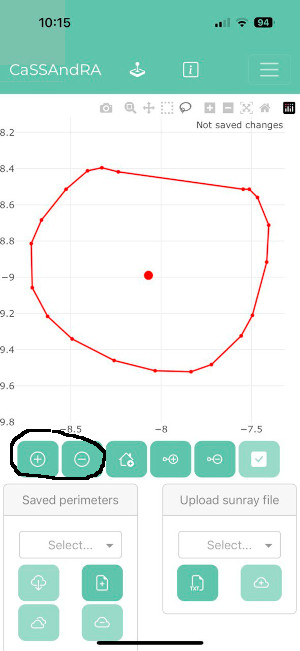
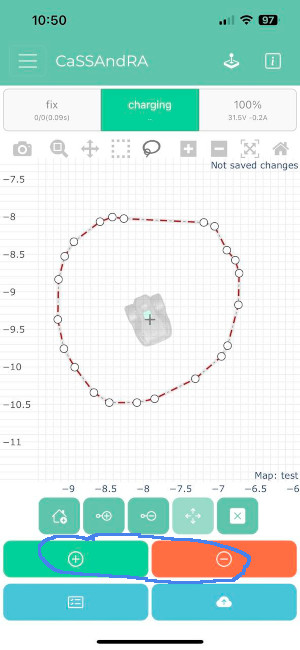
ATTENTION!!! Pls read README.MD
- Your data are now on new location!
- New options for app start
- Start translating READMIE.MD

diff --git a/CaSSAndRA/src/pages/mapping.py b/CaSSAndRA/src/pages/mapping.py
@@ -107,7 +107,7 @@ def update_layout() -> html.Div:
                                         dbc.Modal(
                                             [
                                                 dbc.ModalHeader(
-                                                    dbc.ModalTitle('Choose Perimeter')
+                                                    dbc.ModalTitle('Select map')
                                                 ),
                                                 dbc.ModalBody([
                                                     dbc.Col(id=ids.CONTENTMODALCHOOSEPERIMETER),
@@ -136,7 +136,7 @@ def update_layout() -> html.Div:
                                         dbc.Modal(
                                             [
                                                 dbc.ModalHeader(
-                                                    dbc.ModalTitle('Upload Sunray')
+                                                    dbc.ModalTitle('Import map')
                                                 ),
                                                 dbc.ModalBody(
                                                     dbc.Col(id=ids.CONETNEMODALUPLOADFILE) 

diff --git a/README.md b/README.md
@@ -278,50 +278,54 @@ Select “App” under Settings. Here you have the option to configure some fron
 5. Voltage to SoC: Conversion of voltage to state of charge (simple linear interpolation). The recommended voltage min (0%) is the shutdown voltage from the config.h of your sunray FW +0.5V. The recommended voltage max (100%) is the final charging voltage from the config.h of your sunray FW -0.5V. The SoC display has no controlling function and only serves as an overview on the home page
 
 ## Mapping
-Eine neue Karte oder bereits vorhandene Karte kann im Bereich Mapping erstellt/geändert werden. 
+A new map or existing map can be created/modified on the "Mapping" page.
 
-In der App klickt auf "Mapping". Um eine vorhandene Karte zu ändern, wählt im Bereich "saved perimeters" die gewünschte Karte. Nun kann mit der Bearbeitung gestartet werden. Eine zusätzliche Sicherung der vorhandenen Karte vor der Bearbeitung ist nicht notwendig. Nach dem Fertigstellen der Karte wird man aufgefordert die bearbeitete Karte in einem separaten Slot zu speichern. Um eine neue Karte zu erstellen klickt auf das Dateisymbol mit dem Plus im Berech "saved perimeters". 
+In the app click on “Mapping”. To change an existing map, select the desired map in the "select map" area. Now you can start editing. An additional backup of the existing map before processing is not necessary. After completing the map, you will be asked to save the edited map in a separate slot. To create a new map, click on the file icon with the plus in the "select map" section.
 
 ![create_new_perimeter](https://raw.githubusercontent.com/EinEinfach/CaSSAndRA/master/docs/create_new_perimeter.jpeg) 
 
-Positioniert den Roboter an der Stelle, wo ein neuer Punkt aufgezeichnet soll und drückt auf "add new point" zum hinzufügen einer neuen Koordinate oder "remove last point" zum Löschen der letztgesetzten Koordinate.
+Position the robot at the location where a new point is to be recorded and press "add new point" to add a new coordinate or "remove last point" to delete the last set coordinate.
 
 ![add_remove_point](https://raw.githubusercontent.com/EinEinfach/CaSSAndRA/master/docs/add_remove_point.jpeg) 
 
-Ist die Figur fertig kann diese der Fläche hinzugefügt werden (Perimeter), oder aus der Fläche entfernt werden (Exclusion). Hierzu klickt auf die entsprechende Buttons.
+Once the figure is finished, it can be added to the area (perimeter) or removed from the area (exclusion). To do this, click on the corresponding buttons.
 
 ![add_remove_figure](https://raw.githubusercontent.com/EinEinfach/CaSSAndRA/master/docs/add_remove_figure.jpeg) 
 
-Um eine Figur zu erstellen können bereits bekannte Werkzeuge Box-Select oder Lasso-Select genutzt werden. So funiktioniert z.B. auch das Löschen einer Exclusion umkreist die Exclusion mit Lasso-Select und wählt zur Fläche hinzufügen. Die neue Figur wird dem Perimeter hinzugefügt und überklebt sozusagen die vorhandene Exclusion. 
+To create a figure, you can use the well-known tools Box-Select or Lasso-Select. For example, deleting an exclusion also works by circling the exclusion with lasso select and selecting add to area. The new figure is added to the perimeter and covers over the existing exclusion. The Lasso-Select selection and Box-Select selection can be removed by double click event if corespondent tool selected
 
-Um einen Dockpfad aufzuzeichnen selektiert hierzu das Symbol mit dem Haus. Danach kann mit den Buttons "add new point" und "remove last point" der neue Dockpfad aufgezeichnet werden. Wenn ein neuer Dockpfad aufgenommen wurde oder ein vohandener überarbeitet wurde merkt das CaSSAndRA und beim Speichern des neuen Perimeters verschiebt CaSSAndRA den letzten Dockpoint automatisch um 10cm in die Dockrichtung um das sichere Andocken zu gewährleisten. 
+To record a dock path, select the symbol with the house. The new dock path can then be recorded using the “add new point” and “remove last point” buttons. When a new dock path has been recorded or an existing one has been revised, CaSSAndRA notices it and when saving the new perimeter, CaSSAndRA automatically moves the last dock point by 10cm in the docking direction to ensure safe docking. This feauture isn't active if you modify dock path in edit or moving mode.
 
-Wenn das neue Perimeter aufgenommen wurde kann das mit entsprechednen Button bestätigt werden und CaSSAndRA fordert euch auf einen neuen Namen für die erstellte Karte zu wählen.
+Edit mode:
+Select a point what you want to modify. Related figure chages his color and selected point is also marked. Now you can remove the point by clicking remove point or you can add a new point to the figure. The new point is added between current point and point before or next point
+
+Moving mode:
+Has to be descipted...
+
+If you are finished. Click on the cloud with plus button in "Select map" section and give an unique name for new/changed map.
 
 ![save_new_perimeter](https://raw.githubusercontent.com/EinEinfach/CaSSAndRA/master/docs/save_new_perimeter.jpeg) 
 
-### Importieren einer Karte
-Es gibt die Möglichkeit eine Karte, die in der Sunray App ersstellt wurde zu importtieren. 
+### Import map
+It is possible to import a map that was created in the Sunray app.
 
-Im Bereich "Upload sunray file" klickt auf den Button mit "txt-Datei-Icon". 
+In the “Import map” area, click on the button with the “txt file icon”.
 
-Wählt eure Sunray-Export Datei. 
+Choose your Sunray export file.
 
-Im Dropdownmenü könnt Ihr jetzt die gewünschte Karte auswählen. 
+You can now select the map you want in the drop-down menu.
 
-Ein Vorschau der Karte wird in Rot angezeigt mit dem Hinweis "From upload (please save first)".
+A preview of the map is displayed in red with the note "From upload (please save first)".
 
 ![upload](https://raw.githubusercontent.com/EinEinfach/CaSSAndRA/master/docs/upload.jpeg) 
 
-Um die gewünschte Karte zu speichern klickt auf die Wolke mit Plus. 
+If you want save selected upload. Click on the cloud with plus button in "Select map" section and give an unique name for imported map.
 
-Im poup-Menü wählt einen eineindeutigen Namen und klickt OK. 
+The map is now available in "Select map" section
 
-Die Karte wird gespeichert und kann im Berech "Saved perimeters" im Dropdownmenü ausgewählt werden. 
+The map can be activated using the cloud with the outgoing arrow.
 
-Mit der Wolke mit dem ausgehenden Pfeil kann die Karte aktiv geschaltet werden. 
-
-Wechselt auf die Startseite. Die neue Karte wird in der Übersicht angezeigt und kann verwendet werden.
+Switches to the home page. The new map is displayed in the overview and can be used.
 
 ## Starten einer Aufgabe
 
